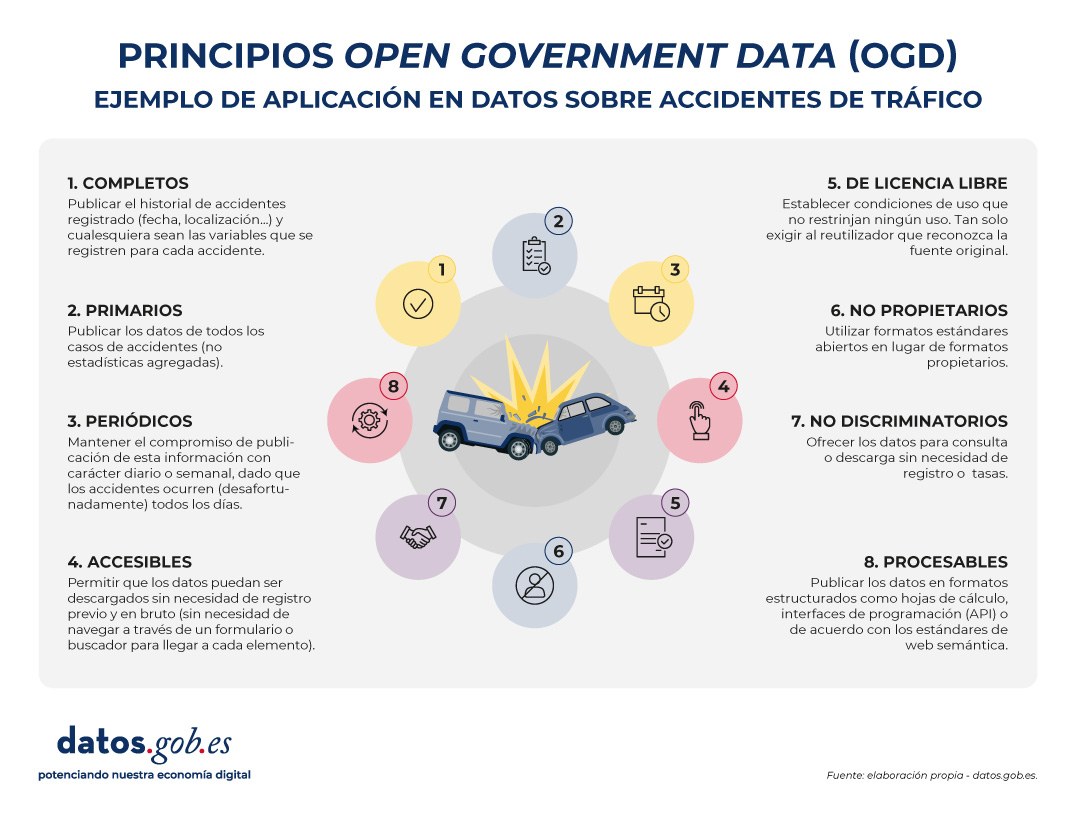
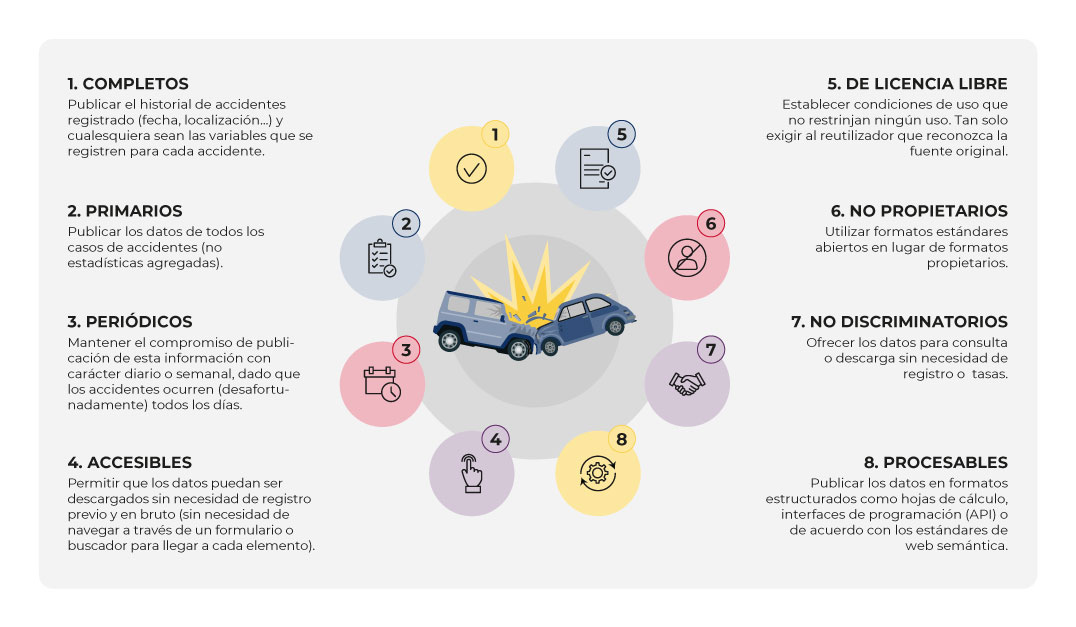
fix: ajustar imagenes de unidad 01

diff --git a/CURSO.md b/CURSO.md
@@ -195,6 +195,9 @@ Los datos procedentes de múltiples ámbitos —geográfico, medioambiental, met
 
 Como punto de partida se definen los conceptos básicos que se manejan al hablar de datos en general y de datos abiertos en particular. Se toma como referencia el marco legislativo vigente en España.
 
+<center>![Conceptos clave de datos abiertos](media/image_001.jpg "Conceptos clave de datos abiertos. Fuente: [datos.gob.es](https://datos.gob.es/)")</center>
+
+
 *************************************************************************************************************
 
 ### Bloque I: Conceptos básicos
@@ -226,7 +229,7 @@ Los datos pueden ser **estructurados** y **no estructurados**:
 	</div>
 </div>
 
-<center>![Datos, información y conocimiento](media/image_003.png "Datos, información y conocimiento. Fuente: Shutterstock. Créditos: Anna Frajtova")</center>
+<center>![Datos, información y conocimiento](media/image_003.jpg "Datos, información y conocimiento. Fuente: Shutterstock. Créditos: Anna Frajtova")</center>
 
 **Datos abiertos:** cualquiera es libre de utilizar, reutilizar y redistribuir, con el único límite, en su caso, del requisito de atribución de su fuente o el reconocimiento de su autoría. [📖 Fuente](https://www.boe.es/buscar/act.php?id=BOE-A-2007-19814)
 
@@ -769,6 +772,8 @@ Se sustenta en tres pilares básicos:
 Para garantizar que los datos abiertos sean fácilmente utilizables, reutilizables y redistribuibles, es necesario cumplir con una serie de principios reconocidos internacionalmente. Estos principios constituyen el marco de referencia que orienta a las organizaciones en la publicación de datos abiertos.
 
 Aunque en la literatura se identifican diversos enfoques, existen dos marcos de referencia considerados fundamentales, los cuales se presentan a continuación.
+
+<center>![Conceptos de apertura de datos](media/image_002.jpg "Conceptos de apertura de datos. Fuente: [datos.gob.es](https://datos.gob.es/)")</center>
 
 *************************************************************************************************************
 
